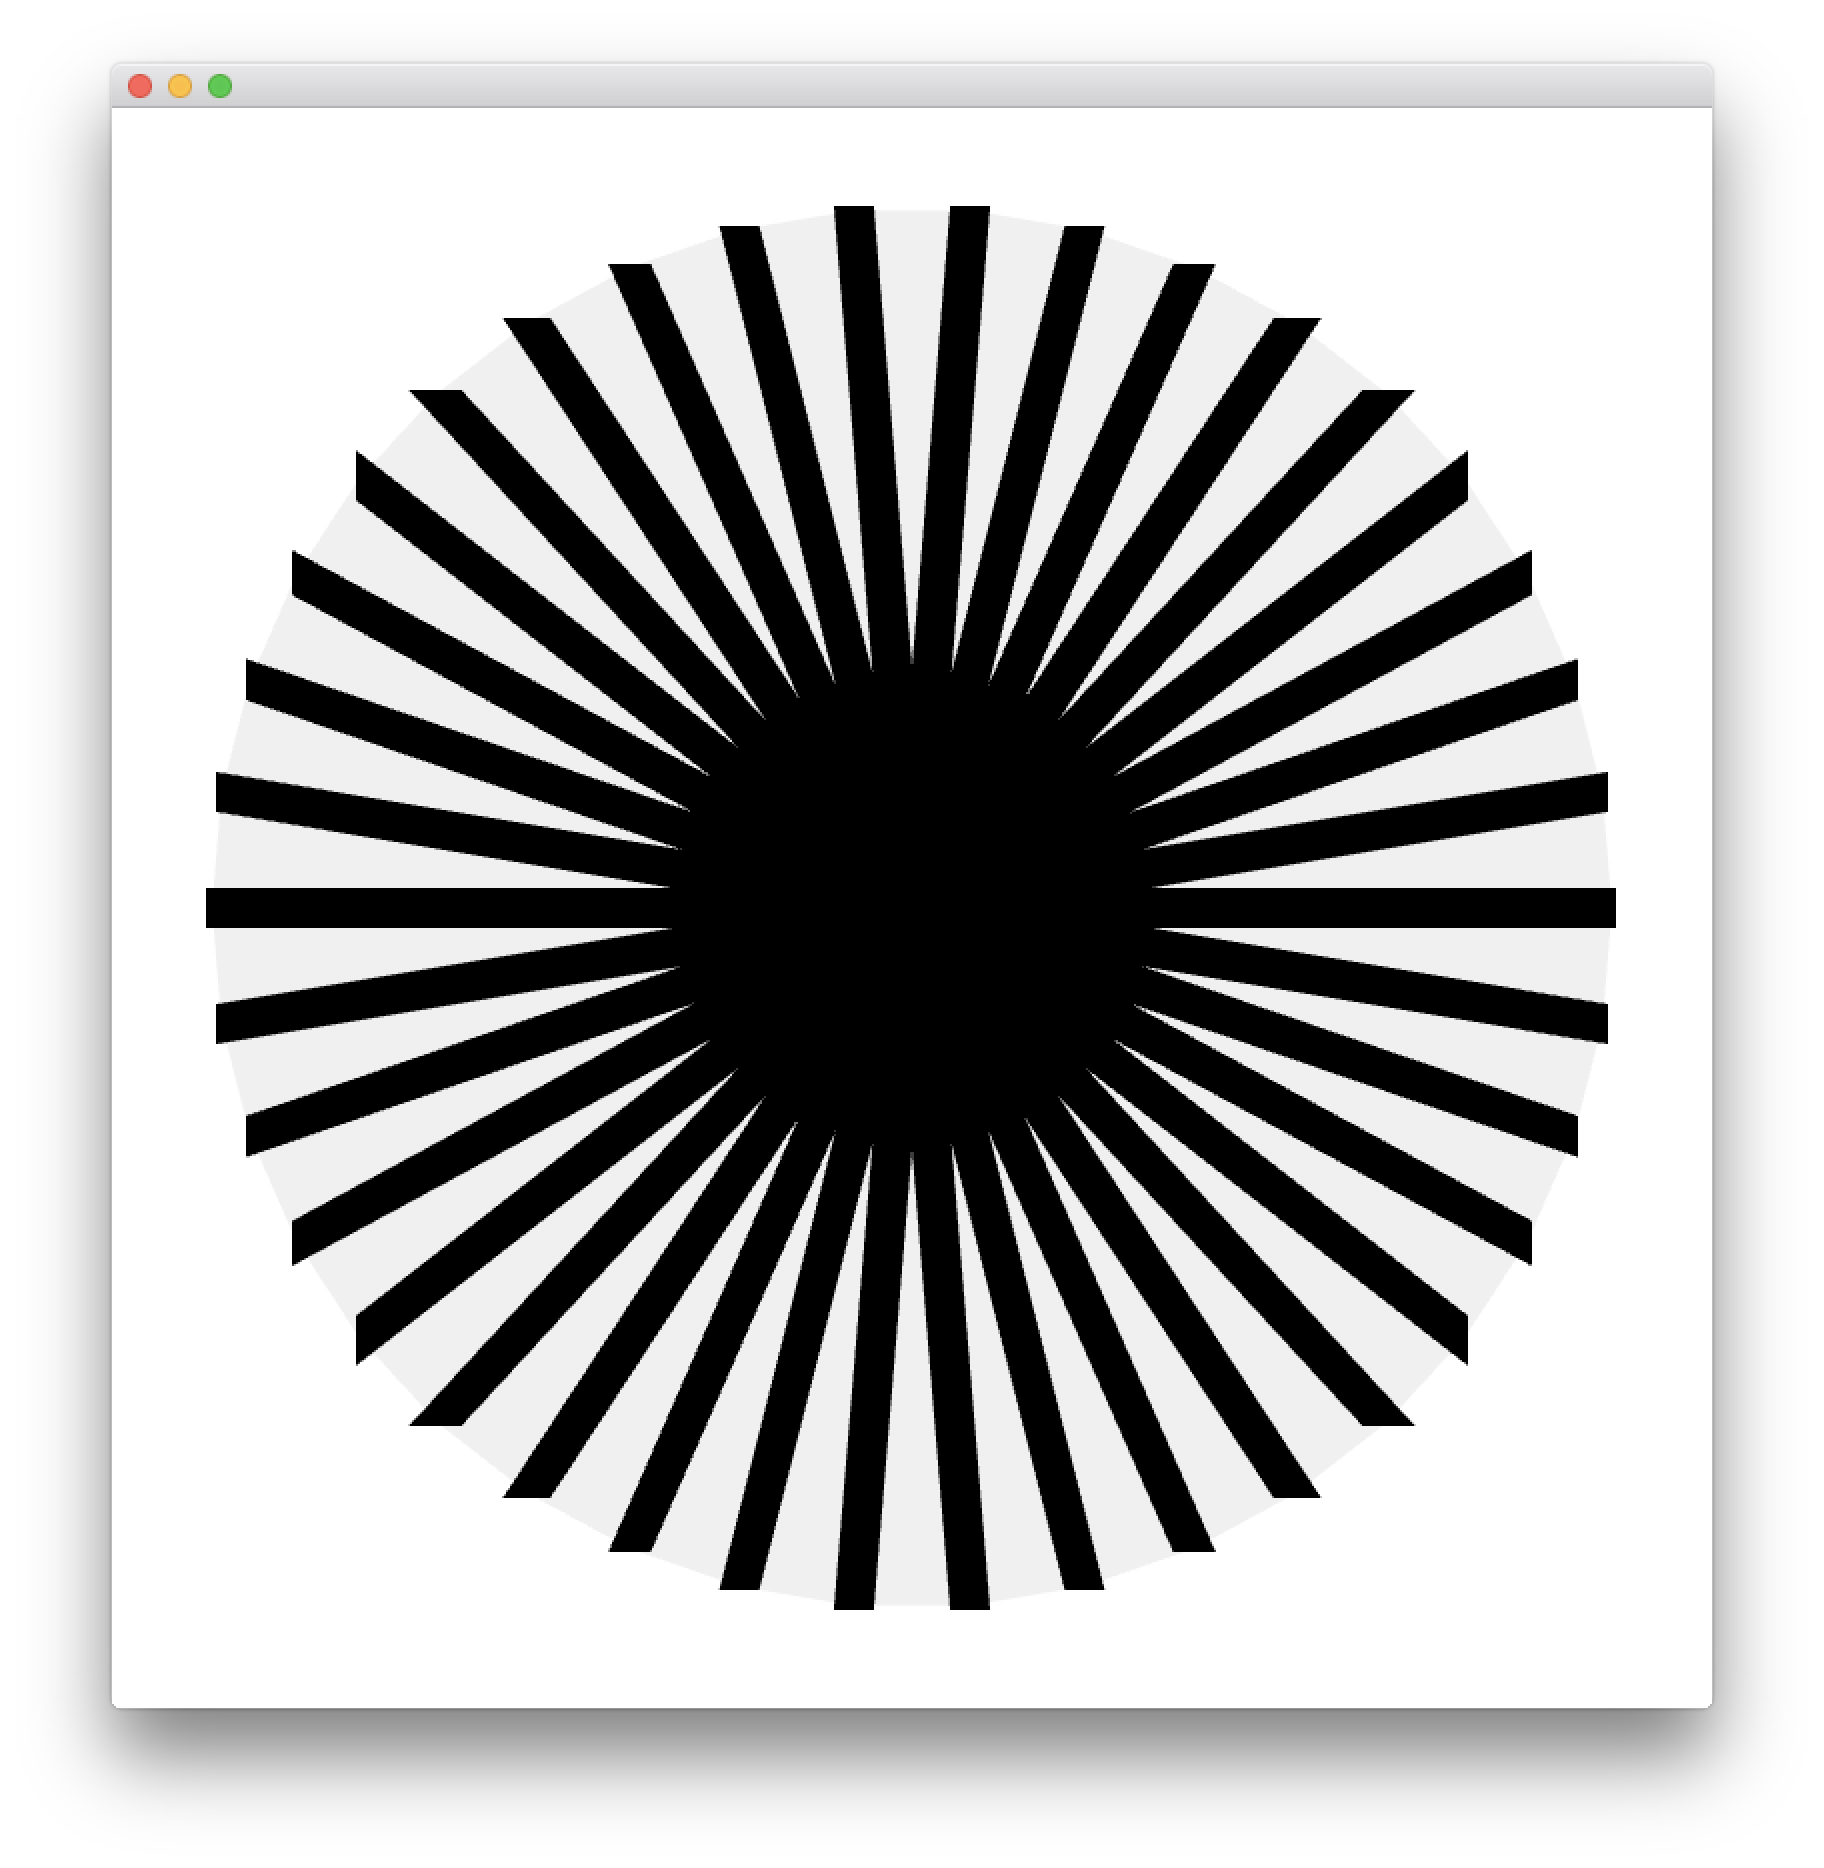
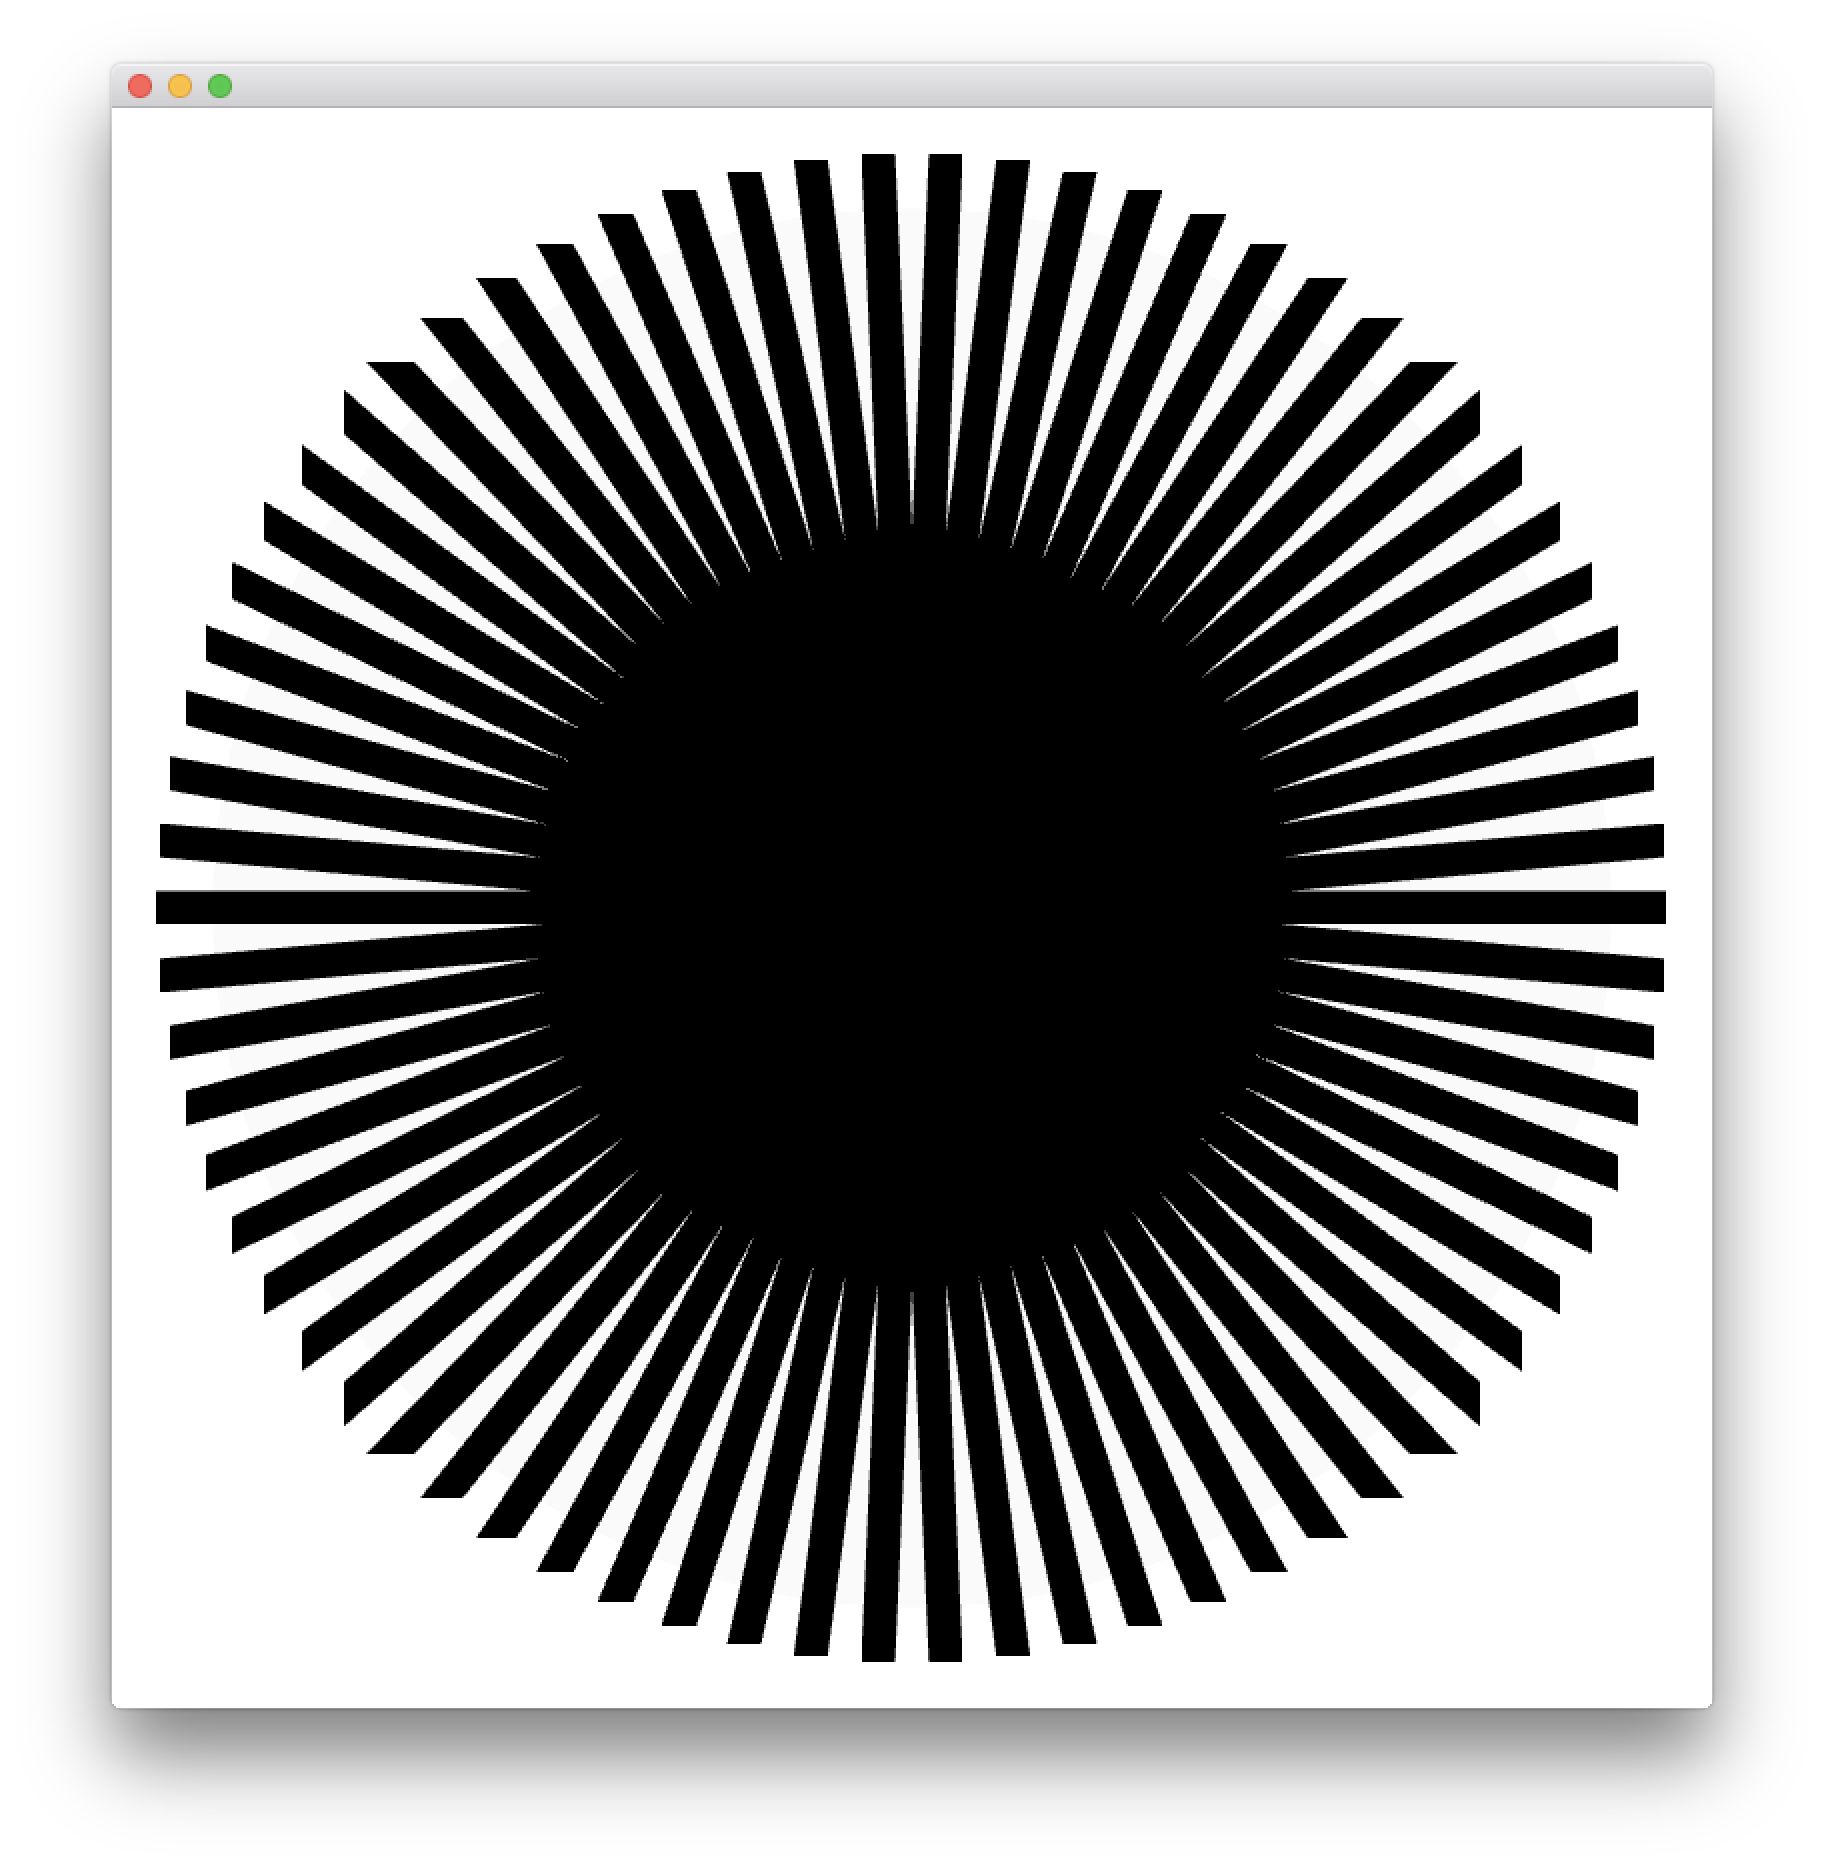
p2001

Changed region(s): [[0.0625, 0.0621, 0.9375, 0.9004]]

diff --git a/P.2 Shape/P.2.0.01 Hello, shape/src/ofApp.cpp b/P.2 Shape/P.2.0.01 Hello, shape/src/ofApp.cpp
@@ -32,10 +32,10 @@ void ofApp::draw(){
     
     line.clear();
     
-    ofColor color = ofColor(240);
+    ofColor color = ofColor(250);
     ofSetColor(color);
     
-    circleResolution = ofMap(mouseY, 0, ofGetHeight(), 0, 40);
+    circleResolution = ofMap(mouseY, 0, ofGetHeight(), 0, 80);
     radius = mouseX-ofGetWidth()/2 + 0.5;
     angle = TWO_PI/circleResolution;
     
@@ -53,7 +53,7 @@ void ofApp::draw(){
             line.moveTo(ofGetWidth()/2,ofGetHeight()/2);
             line.lineTo(x + ofGetWidth()/2 , y + ofGetHeight()/2);
             line.setStrokeColor(ofColor::black);
-            line.setStrokeWidth(20);
+            line.setStrokeWidth(ofMap(mouseY, 0, ofGetHeight(), 1, 20));
             line.draw();
             
         }
